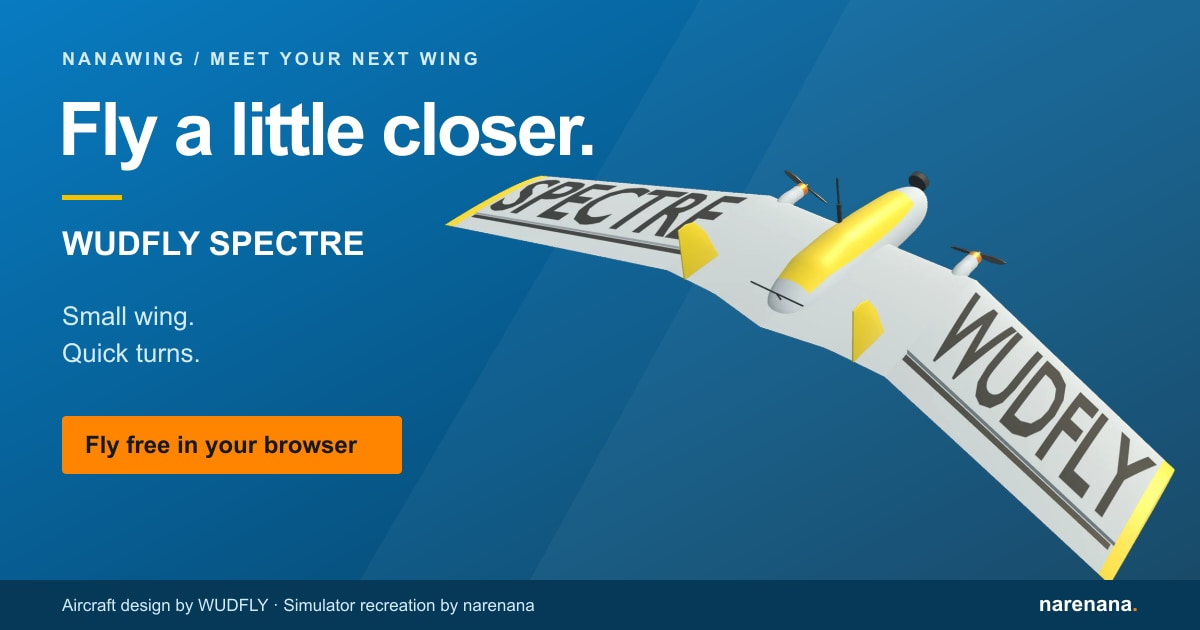
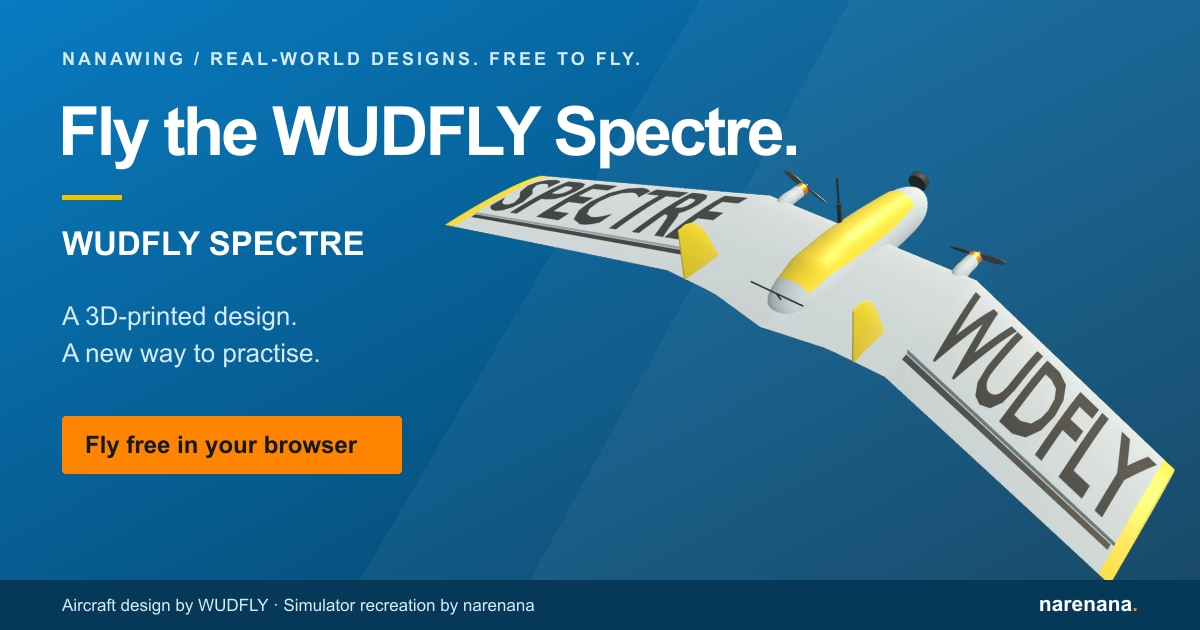
Reframe aircraft copy around free RC practice and add aircraft requests

Changed region(s): [[0.0617, 0.1508, 0.6783, 0.2714], [0.185, 0.0603, 0.5242, 0.1206], [0.0308, 0.4825, 0.2775, 0.6032]]

diff --git a/site/nanawing/aircraft/index.html b/site/nanawing/aircraft/index.html
@@ -1,17 +1,18 @@
-<!doctype html><html lang="en"><head><meta charset="utf-8"><script>if(location.hostname==='www.narenana.com'){var ga=document.createElement('script');ga.async=true;ga.src='https://www.googletagmanager.com/gtag/js?id=G-1KY518LPBH';document.head.appendChild(ga);window.dataLayer=window.dataLayer||[];function gtag(){dataLayer.push(arguments)}gtag('js',new Date());gtag('config','G-1KY518LPBH')}</script><meta name="viewport" content="width=device-width,initial-scale=1"><title>Fly the WUDFLY Spectre in Nanawing | Four wings to try | narenana</title><meta name="description" content="Get closer to the scenery in Nanawing's recreation of the WUDFLY Spectre, then find your pace in three more FPV wings. Fly free in your browser. No install or login."><meta name="robots" content="index,follow,max-image-preview:large"><link rel="canonical" href="https://www.narenana.com/nanawing/aircraft/"><meta name="theme-color" content="#087bc1"><link rel="icon" href="/assets/avatar.jpg?v=49424a6497"><meta property="og:type" content="website"><meta property="og:site_name" content="narenana"><meta property="og:title" content="Fly a little closer. Meet the WUDFLY Spectre."><meta property="og:description" content="Small wing. Quick turns. A whole new way to explore Nanawing. Try our recreation of WUDFLY's twin-motor Spectre free in your browser. No install or login."><meta property="og:url" content="https://www.narenana.com/nanawing/aircraft/"><meta property="og:image" content="https://www.narenana.com/nanawing/aircraft/spectre-share-v1.jpg"><meta name="twitter:card" content="summary_large_image"><meta name="twitter:title" content="Fly a little closer. Meet the WUDFLY Spectre."><meta name="twitter:description" content="Small wing. Quick turns. A whole new way to explore Nanawing. Try our recreation of WUDFLY's twin-motor Spectre free in your browser. No install or login."><meta name="twitter:image" content="https://www.narenana.com/nanawing/aircraft/spectre-share-v1.jpg"><meta property="og:image:alt" content="WUDFLY Spectre simulator model, a white and yellow twin-motor flying wing. Fly a little closer in Nanawing, free in your browser."><meta name="twitter:image:alt" content="WUDFLY Spectre simulator model, a white and yellow twin-motor flying wing. Fly a little closer in Nanawing, free in your browser."><link rel="stylesheet" href="/assets/family/fonts.css?v=c848c473a8"><link rel="stylesheet" href="/assets/editorial.css?v=f64f49da02"><link rel="stylesheet" href="/assets/family/shell.css?v=dfbc6fd384"><script type="application/ld+json">{"@context":"https://schema.org","@graph":[{"@type":"WebPage","@id":"https://www.narenana.com/nanawing/aircraft/","url":"https://www.narenana.com/nanawing/aircraft/","name":"Fly the WUDFLY Spectre in Nanawing | Four wings to try","description":"Get closer to the scenery in Nanawing's recreation of the WUDFLY Spectre, then find your pace in three more FPV wings. Fly free in your browser. No install or login.","isPartOf":{"@id":"https://www.narenana.com/#website"},"about":{"@id":"https://sim.narenana.com/#app"}},{"@type":"BreadcrumbList","itemListElement":[{"@type":"ListItem","position":1,"name":"Home","item":"https://www.narenana.com/"},{"@type":"ListItem","position":2,"name":"Nanawing aircraft","item":"https://www.narenana.com/nanawing/aircraft/"}]},{"@type":"ItemList","name":"Nanawing aircraft","itemListElement":[{"@type":"ListItem","position":1,"name":"WUDFLY Spectre","url":"https://www.narenana.com/nanawing/aircraft/#spectre","image":"https://www.narenana.com/assets/nanawing/aircraft/spectre-photo-1200.webp?v=4365a38855"},{"@type":"ListItem","position":2,"name":"Nanawing One","url":"https://www.narenana.com/nanawing/aircraft/#desertwing","image":"https://www.narenana.com/assets/nanawing/aircraft/desertwing-1400.webp?v=2f3e75815e"},{"@type":"ListItem","position":3,"name":"Morok UAV","url":"https://www.narenana.com/nanawing/aircraft/#morok","image":"https://www.narenana.com/assets/nanawing/aircraft/morok-1400.webp?v=7be7a0a8c3"},{"@type":"ListItem","position":4,"name":"Sukhoi S-70 Okhotnik","url":"https://www.narenana.com/nanawing/aircraft/#sukhoi","image":"https://www.narenana.com/assets/nanawing/aircraft/sukhoi-1400.webp?v=fbcd52112d"}]},{"@type":"FAQPage","mainEntity":[{"@type":"Question","name":"Which Nanawing aircraft should I fly first?","acceptedAnswer":{"@type":"Answer","text":"Try the Spectre for a slower pace and quick banks close to the scenery. Brand new to flying? The Nanawing One is a welcoming starting point, with the lowest stall speed in the hangar. Choose the Morok for more speed, or the Sukhoi for the fastest flight of the four."}},{"@type":"Question","name":"Is the WUDFLY Spectre in Nanawing the real aircraft?","acceptedAnswer":{"@type":"Answer","text":"It's our recreation of WUDFLY's design, with the real wing's 600 mm span, twin motors and white-and-yellow livery. Its handling is a simulator approximation. The real Spectre is designed and sold by WUDFLY at wudfly.com."}},{"@type":"Question","name":"Can every aircraft race every course?","acceptedAnswer":{"@type":"Answer","text":"Yes. Each of the four courses keeps a separate board for each aircraft, so you race pilots in the same plane. Only your best lap counts."}},{"@type":"Question","name":"Do I need a controller?","acceptedAnswer":{"@type":"Answer","text":"No. All four fly on a keyboard, and a gamepad or a USB RC radio works too. The Spectre's yaw needs a controller's yaw stick."}}]}]}</script><link rel="stylesheet" href="/assets/nanawing-aircraft.css?v=e9bcd54314"></head><body><a class="skip" href="#main">Skip to content</a><header class="nn-header"><div class="nn-bar"><a class="nn-brand" href="/" aria-label="narenana home"><img src="/assets/family/avatar.jpg?v=49424a6497" width="40" height="40" alt="">narenana<span>.</span></a><nav class="nn-desktop" aria-label="Products"><a href="https://sim.narenana.com/"><span>Nanawing</span><small>FPV simulator</small></a><a href="https://nanawing2.narenana.com/"><span>Nanawing 2</span><small>Line-of-sight simulator</small></a><a href="/wings/"><span>Wings</span><small>Compare RC plane prices</small></a><a href="/log-viewer/"><span>Log viewer</span><small>Replay your flight logs</small></a></nav><a class="nn-contact" href="/#contact">Get in touch ↗</a><details class="nn-mobile"><summary>Menu</summary><nav aria-label="Products"><a href="https://sim.narenana.com/"><span>Nanawing</span><small>FPV simulator</small></a><a href="https://nanawing2.narenana.com/"><span>Nanawing 2</span><small>Line-of-sight simulator</small></a><a href="/wings/"><span>Wings</span><small>Compare RC plane prices</small></a><a href="/log-viewer/"><span>Log viewer</span><small>Replay your flight logs</small></a><a href="/#contact"><span>Get in touch ↗</span><small>Meet the pilot</small></a></nav></details></div></header><main id="main"><div class="ac-page">
+<!doctype html><html lang="en"><head><meta charset="utf-8"><script>if(location.hostname==='www.narenana.com'){var ga=document.createElement('script');ga.async=true;ga.src='https://www.googletagmanager.com/gtag/js?id=G-1KY518LPBH';document.head.appendChild(ga);window.dataLayer=window.dataLayer||[];function gtag(){dataLayer.push(arguments)}gtag('js',new Date());gtag('config','G-1KY518LPBH')}</script><meta name="viewport" content="width=device-width,initial-scale=1"><title>Nanawing aircraft | Fly more. Build your skills for free. | narenana</title><meta name="description" content="Explore four lifelike aircraft, from a forgiving trainer to WUDFLY's 3D-printed Spectre. Get to know each wing and practise your RC flying, free in your browser."><meta name="robots" content="index,follow,max-image-preview:large"><link rel="canonical" href="https://www.narenana.com/nanawing/aircraft/"><meta name="theme-color" content="#087bc1"><link rel="icon" href="/assets/avatar.jpg?v=49424a6497"><meta property="og:type" content="website"><meta property="og:site_name" content="narenana"><meta property="og:title" content="Fly the WUDFLY Spectre free in Nanawing"><meta property="og:description" content="Get to know our recreation of WUDFLY's 3D-printed, twin-motor Spectre. Discover how it flies, then build your skills with three more aircraft. All free in your browser."><meta property="og:url" content="https://www.narenana.com/nanawing/aircraft/"><meta property="og:image" content="https://www.narenana.com/nanawing/aircraft/spectre-share-v1.jpg"><meta name="twitter:card" content="summary_large_image"><meta name="twitter:title" content="Fly the WUDFLY Spectre free in Nanawing"><meta name="twitter:description" content="Get to know our recreation of WUDFLY's 3D-printed, twin-motor Spectre. Discover how it flies, then build your skills with three more aircraft. All free in your browser."><meta name="twitter:image" content="https://www.narenana.com/nanawing/aircraft/spectre-share-v1.jpg"><meta property="og:image:alt" content="Fly the WUDFLY Spectre free in Nanawing: a simulator recreation of the white and yellow, 3D-printed twin-motor wing."><meta name="twitter:image:alt" content="Fly the WUDFLY Spectre free in Nanawing: a simulator recreation of the white and yellow, 3D-printed twin-motor wing."><link rel="stylesheet" href="/assets/family/fonts.css?v=c848c473a8"><link rel="stylesheet" href="/assets/editorial.css?v=f64f49da02"><link rel="stylesheet" href="/assets/family/shell.css?v=dfbc6fd384"><script type="application/ld+json">{"@context":"https://schema.org","@graph":[{"@type":"WebPage","@id":"https://www.narenana.com/nanawing/aircraft/","url":"https://www.narenana.com/nanawing/aircraft/","name":"Nanawing aircraft | Fly more. Build your skills for free.","description":"Explore four lifelike aircraft, from a forgiving trainer to WUDFLY's 3D-printed Spectre. Get to know each wing and practise your RC flying, free in your browser.","isPartOf":{"@id":"https://www.narenana.com/#website"},"about":{"@id":"https://sim.narenana.com/#app"}},{"@type":"BreadcrumbList","itemListElement":[{"@type":"ListItem","position":1,"name":"Home","item":"https://www.narenana.com/"},{"@type":"ListItem","position":2,"name":"Nanawing aircraft","item":"https://www.narenana.com/nanawing/aircraft/"}]},{"@type":"ItemList","name":"Nanawing aircraft","itemListElement":[{"@type":"ListItem","position":1,"name":"WUDFLY Spectre","url":"https://www.narenana.com/nanawing/aircraft/#spectre","image":"https://www.narenana.com/assets/nanawing/aircraft/spectre-photo-1200.webp?v=4365a38855"},{"@type":"ListItem","position":2,"name":"Nanawing One","url":"https://www.narenana.com/nanawing/aircraft/#desertwing","image":"https://www.narenana.com/assets/nanawing/aircraft/desertwing-1400.webp?v=2f3e75815e"},{"@type":"ListItem","position":3,"name":"Morok UAV","url":"https://www.narenana.com/nanawing/aircraft/#morok","image":"https://www.narenana.com/assets/nanawing/aircraft/morok-1400.webp?v=7be7a0a8c3"},{"@type":"ListItem","position":4,"name":"Sukhoi S-70 Okhotnik","url":"https://www.narenana.com/nanawing/aircraft/#sukhoi","image":"https://www.narenana.com/assets/nanawing/aircraft/sukhoi-1400.webp?v=fbcd52112d"}]},{"@type":"FAQPage","mainEntity":[{"@type":"Question","name":"How does this help me at the RC field?","acceptedAnswer":{"@type":"Answer","text":"Use Nanawing to practise control inputs, throttle management and planning your turns, and to discover how different aircraft respond. A gamepad or USB RC radio lets you practise on sticks. Simulator time complements real flying; the handling is an approximation, not a substitute for instruction, aircraft checks or safe flying at the field."}},{"@type":"Question","name":"Which Nanawing aircraft should I fly first?","acceptedAnswer":{"@type":"Answer","text":"Start with the Nanawing One if you are learning the controls. Try the Spectre for quick banks and twin-motor yaw on a controller. Move to the Morok and Sukhoi to explore how more speed changes your timing and flight planning. Every aircraft is free, so you can try them all."}},{"@type":"Question","name":"Is the WUDFLY Spectre in Nanawing the real aircraft?","acceptedAnswer":{"@type":"Answer","text":"It's our recreation of WUDFLY's design, with the real wing's 600 mm span, twin motors and white-and-yellow livery. Its handling is a simulator approximation. The real Spectre is designed and sold by WUDFLY at wudfly.com."}},{"@type":"Question","name":"Can every aircraft race every course?","acceptedAnswer":{"@type":"Answer","text":"Yes. Each of the four courses keeps a separate board for each aircraft, so you race pilots in the same plane. Only your best lap counts."}},{"@type":"Question","name":"Do I need a controller?","acceptedAnswer":{"@type":"Answer","text":"No. All four fly on a keyboard, and a gamepad or a USB RC radio works too. The Spectre's yaw needs a controller's yaw stick."}}]}]}</script><link rel="stylesheet" href="/assets/nanawing-aircraft.css?v=317e518063"></head><body><a class="skip" href="#main">Skip to content</a><header class="nn-header"><div class="nn-bar"><a class="nn-brand" href="/" aria-label="narenana home"><img src="/assets/family/avatar.jpg?v=49424a6497" width="40" height="40" alt="">narenana<span>.</span></a><nav class="nn-desktop" aria-label="Products"><a href="https://sim.narenana.com/"><span>Nanawing</span><small>FPV simulator</small></a><a href="https://nanawing2.narenana.com/"><span>Nanawing 2</span><small>Line-of-sight simulator</small></a><a href="/wings/"><span>Wings</span><small>Compare RC plane prices</small></a><a href="/log-viewer/"><span>Log viewer</span><small>Replay your flight logs</small></a></nav><a class="nn-contact" href="/#contact">Get in touch ↗</a><details class="nn-mobile"><summary>Menu</summary><nav aria-label="Products"><a href="https://sim.narenana.com/"><span>Nanawing</span><small>FPV simulator</small></a><a href="https://nanawing2.narenana.com/"><span>Nanawing 2</span><small>Line-of-sight simulator</small></a><a href="/wings/"><span>Wings</span><small>Compare RC plane prices</small></a><a href="/log-viewer/"><span>Log viewer</span><small>Replay your flight logs</small></a><a href="/#contact"><span>Get in touch ↗</span><small>Meet the pilot</small></a></nav></details></div></header><main id="main"><div class="ac-page">
 <nav class="crumbs" aria-label="Breadcrumb"><a href="/">Home</a> / Nanawing aircraft</nav>
-<div class="ac-hero"><span class="eyebrow">NANAWING / THE HANGAR</span><h1>Fly a little closer.<br><span>Meet the WUDFLY Spectre.</span></h1><p class="lede">Skim the scenery. Bank into the next gap. Discover the joy of a small wing with a quick response in Nanawing's recreation of the WUDFLY Spectre. Then try three more wings, each with its own pace and feel. All four are free to fly in your browser.</p>
-<div class="ac-actions"><a class="ac-btn" href="https://sim.narenana.com/?play&amp;aircraft=spectre" target="_blank" rel="noopener">Fly the Spectre <span aria-hidden="true">↗</span></a><a class="ac-link" href="#compare">Find your wing <span aria-hidden="true">↓</span></a></div>
-<ul class="ac-lineup" aria-label="The four aircraft"><li><a href="#spectre"><img src="/assets/nanawing/aircraft/spectre-900.webp?v=7a7cc3f3dd" srcset="/assets/nanawing/aircraft/spectre-560.webp?v=c5f88ce574 560w, /assets/nanawing/aircraft/spectre-900.webp?v=7a7cc3f3dd 900w, /assets/nanawing/aircraft/spectre-1400.webp?v=3e78b52736 1400w" sizes="(max-width:700px) 44vw, 270px" alt="WUDFLY Spectre, a white and yellow twin-motor flying wing with SPECTRE and WUDFLY lettering, rendered from the simulator model" width="900" height="511" fetchpriority="high"><span class="ac-lineup-name">WUDFLY Spectre</span><span class="ac-lineup-role">Get closer to the scenery</span></a></li><li><a href="#desertwing"><img src="/assets/nanawing/aircraft/desertwing-900.webp?v=6c56022542" srcset="/assets/nanawing/aircraft/desertwing-560.webp?v=a258e83f11 560w, /assets/nanawing/aircraft/desertwing-900.webp?v=6c56022542 900w, /assets/nanawing/aircraft/desertwing-1400.webp?v=2f3e75815e 1400w" sizes="(max-width:700px) 44vw, 270px" alt="Nanawing One, a blue camouflage flying wing with a single pusher prop, rendered from the simulator model" width="900" height="488" fetchpriority="high"><span class="ac-lineup-name">Nanawing One</span><span class="ac-lineup-role">Find your confidence</span></a></li><li><a href="#morok"><img src="/assets/nanawing/aircraft/morok-900.webp?v=6a83b1f494" srcset="/assets/nanawing/aircraft/morok-560.webp?v=bbaafd7eb1 560w, /assets/nanawing/aircraft/morok-900.webp?v=6a83b1f494 900w, /assets/nanawing/aircraft/morok-1400.webp?v=7be7a0a8c3 1400w" sizes="(max-width:700px) 44vw, 270px" alt="Morok UAV, a silver drone with a V-tail and a pusher prop, rendered from the simulator model" width="900" height="463" loading="lazy" decoding="async"><span class="ac-lineup-name">Morok UAV</span><span class="ac-lineup-role">Find a faster rhythm</span></a></li><li><a href="#sukhoi"><img src="/assets/nanawing/aircraft/sukhoi-900.webp?v=2dbaad485b" srcset="/assets/nanawing/aircraft/sukhoi-560.webp?v=9e1e25080a 560w, /assets/nanawing/aircraft/sukhoi-900.webp?v=2dbaad485b 900w, /assets/nanawing/aircraft/sukhoi-1400.webp?v=fbcd52112d 1400w" sizes="(max-width:700px) 44vw, 270px" alt="Sukhoi S-70 Okhotnik, a grey stealth flying wing, rendered from the simulator model" width="900" height="675" loading="lazy" decoding="async"><span class="ac-lineup-name">Sukhoi S-70 Okhotnik</span><span class="ac-lineup-role">Chase the rush</span></a></li></ul></div>
-<section class="ac-compare" id="compare" aria-labelledby="compare-title"><h2 id="compare-title">Four wings. Find your kind of flying.</h2>
+<div class="ac-hero"><span class="eyebrow">NANAWING / YOUR RC HANGAR</span><h1>Fly more aircraft.<br><span>Build your skills for free.</span></h1><p class="lede">Explore four lifelike aircraft, from a forgiving trainer to WUDFLY's 3D-printed Spectre. Feel how each one flies, find out what makes it different, and build confidence for your next day at the RC field. Every aircraft is free to fly in your browser. No install. No login.</p>
+<div class="ac-actions"><a class="ac-btn" href="https://sim.narenana.com/?play&amp;aircraft=spectre" target="_blank" rel="noopener">Start flying <span aria-hidden="true">↗</span></a><a class="ac-link" href="#compare">Get to know the aircraft <span aria-hidden="true">↓</span></a></div>
+<ul class="ac-lineup" aria-label="The four aircraft"><li><a href="#spectre"><img src="/assets/nanawing/aircraft/spectre-900.webp?v=7a7cc3f3dd" srcset="/assets/nanawing/aircraft/spectre-560.webp?v=c5f88ce574 560w, /assets/nanawing/aircraft/spectre-900.webp?v=7a7cc3f3dd 900w, /assets/nanawing/aircraft/spectre-1400.webp?v=3e78b52736 1400w" sizes="(max-width:700px) 44vw, 270px" alt="WUDFLY Spectre, a white and yellow twin-motor flying wing with SPECTRE and WUDFLY lettering, rendered from the simulator model" width="900" height="511" fetchpriority="high"><span class="ac-lineup-name">WUDFLY Spectre</span><span class="ac-lineup-role">The 3D-printed wing · Fly with precision</span></a></li><li><a href="#desertwing"><img src="/assets/nanawing/aircraft/desertwing-900.webp?v=6c56022542" srcset="/assets/nanawing/aircraft/desertwing-560.webp?v=a258e83f11 560w, /assets/nanawing/aircraft/desertwing-900.webp?v=6c56022542 900w, /assets/nanawing/aircraft/desertwing-1400.webp?v=2f3e75815e 1400w" sizes="(max-width:700px) 44vw, 270px" alt="Nanawing One, a blue camouflage flying wing with a single pusher prop, rendered from the simulator model" width="900" height="488" fetchpriority="high"><span class="ac-lineup-name">Nanawing One</span><span class="ac-lineup-role">The trainer · Build the basics</span></a></li><li><a href="#morok"><img src="/assets/nanawing/aircraft/morok-900.webp?v=6a83b1f494" srcset="/assets/nanawing/aircraft/morok-560.webp?v=bbaafd7eb1 560w, /assets/nanawing/aircraft/morok-900.webp?v=6a83b1f494 900w, /assets/nanawing/aircraft/morok-1400.webp?v=7be7a0a8c3 1400w" sizes="(max-width:700px) 44vw, 270px" alt="Morok UAV, a silver drone with a V-tail and a pusher prop, rendered from the simulator model" width="900" height="463" loading="lazy" decoding="async"><span class="ac-lineup-name">Morok UAV</span><span class="ac-lineup-role">The step up · Plan your turns</span></a></li><li><a href="#sukhoi"><img src="/assets/nanawing/aircraft/sukhoi-900.webp?v=2dbaad485b" srcset="/assets/nanawing/aircraft/sukhoi-560.webp?v=9e1e25080a 560w, /assets/nanawing/aircraft/sukhoi-900.webp?v=2dbaad485b 900w, /assets/nanawing/aircraft/sukhoi-1400.webp?v=fbcd52112d 1400w" sizes="(max-width:700px) 44vw, 270px" alt="Sukhoi S-70 Okhotnik, a grey stealth flying wing, rendered from the simulator model" width="900" height="675" loading="lazy" decoding="async"><span class="ac-lineup-name">Sukhoi S-70 Okhotnik</span><span class="ac-lineup-role">The speed challenge · Think ahead</span></a></li></ul></div>
+<section class="ac-practice" aria-labelledby="practice-title"><h2 id="practice-title">Different aircraft. More ways to grow.</h2><p>The pleasure of RC flying is getting to know the aircraft: how much input it needs, when to ease off the throttle, how early to start a turn. A trainer, a nimble twin-motor wing and a fast, heavier aircraft each give you something different to work on.</p><p>Try them all. Repeat a manoeuvre, explore a new route or put your control to the test on a race course. You can make mistakes, reset and go again without a repair bill. Connect a gamepad or USB RC radio to practise on sticks, or get started with a keyboard.</p></section>
+<section class="ac-compare" id="compare" aria-labelledby="compare-title"><h2 id="compare-title">Get to know your hangar</h2>
 <div class="ac-table-wrap" role="region" aria-labelledby="compare-title" tabindex="0"><table class="ac-table"><thead><tr><th scope="col">Aircraft</th><th scope="col">Top speed</th><th scope="col">Stall speed</th><th scope="col">Roll rate</th><th scope="col">Climb rate</th><th scope="col">Wingspan</th><th scope="col">Weight</th><th scope="col">Thrust</th><th scope="col">Battery</th></tr></thead>
 <tbody><tr><th scope="row"><a href="#spectre">WUDFLY Spectre</a></th><td>100&nbsp;km/h</td><td>25&nbsp;km/h</td><td>344°/s</td><td>8.9&nbsp;m/s</td><td>0.60&nbsp;m</td><td>215&nbsp;g</td><td>3&nbsp;N</td><td>2S 1500&nbsp;mAh · 12&nbsp;A</td></tr><tr><th scope="row"><a href="#desertwing">Nanawing One</a></th><td>191&nbsp;km/h</td><td>24&nbsp;km/h</td><td>241°/s</td><td>18.6&nbsp;m/s</td><td>0.95&nbsp;m</td><td>1.0&nbsp;kg</td><td>26&nbsp;N</td><td>3S 5000&nbsp;mAh · 40&nbsp;A</td></tr><tr><th scope="row"><a href="#morok">Morok UAV</a></th><td>249&nbsp;km/h</td><td>28&nbsp;km/h</td><td>201°/s</td><td>24.6&nbsp;m/s</td><td>0.85&nbsp;m</td><td>1.4&nbsp;kg</td><td>44&nbsp;N</td><td>4S 6500&nbsp;mAh · 60&nbsp;A</td></tr><tr><th scope="row"><a href="#sukhoi">Sukhoi S-70 Okhotnik</a></th><td>323&nbsp;km/h</td><td>34&nbsp;km/h</td><td>166°/s</td><td>32.3&nbsp;m/s</td><td>1.05&nbsp;m</td><td>2.0&nbsp;kg</td><td>74&nbsp;N</td><td>6S 8000&nbsp;mAh · 90&nbsp;A</td></tr></tbody></table></div>
 <p class="ac-swipe">Swipe the table sideways for all eight specs.</p><p class="ac-note">Performance measured in Nanawing, not real-world aircraft specifications. Stall speed is wings-level and unpowered; banked turns need more. Battery is the simulated pack and its full-throttle current.</p></section>
 <section class="ac-craft" id="spectre" aria-labelledby="spectre-title">
 <figure class="ac-craft-img ac-craft-photo"><img src="/assets/nanawing/aircraft/spectre-photo-900.webp?v=446b8861bd" srcset="/assets/nanawing/aircraft/spectre-photo-600.webp?v=1125c37baa 600w, /assets/nanawing/aircraft/spectre-photo-900.webp?v=446b8861bd 900w, /assets/nanawing/aircraft/spectre-photo-1200.webp?v=4365a38855 1200w" sizes="(max-width:860px) 92vw, 600px" alt="The real WUDFLY Spectre on grass: a white 3D-printed twin-motor flying wing with yellow fins" width="1200" height="900" loading="lazy" decoding="async"><figcaption>The real Spectre. Photo: WUDFLY</figcaption></figure>
-<div class="ac-craft-body"><span class="eyebrow">01 / GET CLOSER TO THE SCENERY</span><h2 id="spectre-title">WUDFLY Spectre</h2>
+<div class="ac-craft-body"><span class="eyebrow">01 / THE 3D-PRINTED WING · FLY WITH PRECISION</span><h2 id="spectre-title">WUDFLY Spectre</h2>
 <p class="ac-credit">Aircraft design by <a href="https://wudfly.com/" target="_blank" rel="noopener">WUDFLY</a>.</p>
-<p>Small wing. Quick turns. A new reason to take the scenic route. Our recreation of WUDFLY's 600 mm, 215 g twin-motor wing pairs the lowest top speed in the hangar with the quickest roll. Its measured 100 km/h top speed gives you more time to read the scenery; its crisp bank response invites you to get closer.</p><p>Bring a controller and discover its party trick: differential thrust. The yaw stick varies the two motors' speeds to swing the nose, giving the Spectre a move no other wing in the hangar has. It works best at lower speeds and needs more than 10% throttle. A keyboard still handles pitch, roll and throttle; yaw needs a controller.</p><p class="ac-note">Our simulator model is an original recreation of WUDFLY's design, built from public product photos. Its handling is a simulator approximation, not a manufacturer-validated flight model.</p>
+<p>A plane you can 3D-print at home, recreated for you to fly here. WUDFLY's Spectre packs two motors into a 600 mm, 215 g wing. In Nanawing, its quick roll and lower top speed make it a delight to weave through a route while practising small, deliberate stick movements.</p><p>The Spectre also introduces a different way to steer: differential thrust. With a controller, the yaw stick varies the motors' speeds to swing the nose, alongside your pitch, roll and throttle inputs. Try it at a gentler pace and feel the difference. Yaw needs more than 10% throttle and a controller; keyboard flight still supports pitch, roll and throttle.</p><p class="ac-note">Our simulator model is an original recreation of WUDFLY's design, built from public product photos. Its handling is a simulator approximation, not a manufacturer-validated flight model.</p>
 <dl class="ac-specs"><div><dt>Top speed</dt><dd>100&nbsp;km/h</dd></div><div><dt>Stall speed</dt><dd>25&nbsp;km/h</dd></div><div><dt>Roll rate</dt><dd>344°/s</dd></div><div><dt>Climb rate</dt><dd>8.9&nbsp;m/s</dd></div><div><dt>Wingspan</dt><dd>0.60&nbsp;m</dd></div><div><dt>Weight</dt><dd>215&nbsp;g</dd></div><div><dt>Thrust</dt><dd>3&nbsp;N</dd></div><div><dt>Battery</dt><dd>2S 1500&nbsp;mAh · 12&nbsp;A</dd></div></dl>
 <div class="ac-records"><h3>Fastest laps <span>in the WUDFLY Spectre</span></h3>
 <table><thead><tr><th scope="col">Course</th><th scope="col">Best lap</th><th scope="col">Pilot</th></tr></thead><tbody data-records="spectre"><tr><th scope="row">Windmill Run<small>Island · 4.3 km</small></th><td class="ac-time">—</td><td class="ac-pilot">—</td></tr><tr><th scope="row">River Run<small>Island · 8.1 km</small></th><td class="ac-time">—</td><td class="ac-pilot">—</td></tr><tr><th scope="row">Tunnel Run<small>Desert · 5.1 km</small></th><td class="ac-time">—</td><td class="ac-pilot">—</td></tr><tr><th scope="row">Pyramid Run<small>Desert · 5.7 km</small></th><td class="ac-time">—</td><td class="ac-pilot">—</td></tr></tbody></table>
@@ -23,9 +24,9 @@
 <h4>The real Spectre, flown by WUDFLY</h4><ul class="ac-videos"><li><a class="ac-yt" href="https://www.youtube.com/watch?v=MaVMHJFvd5g" data-yt="MaVMHJFvd5g" target="_blank" rel="noopener"><img src="https://i.ytimg.com/vi/MaVMHJFvd5g/hqdefault.jpg" alt="" width="480" height="360" loading="lazy" decoding="async"><span class="ac-yt-play" aria-hidden="true">▶</span><span class="sr-only">Play: </span></a><p class="ac-yt-title">Ride of the SPECTRE | Full FPV Flight</p></li><li><a class="ac-yt" href="https://www.youtube.com/watch?v=UwFGTptRYRU" data-yt="UwFGTptRYRU" target="_blank" rel="noopener"><img src="https://i.ytimg.com/vi/UwFGTptRYRU/hqdefault.jpg" alt="" width="480" height="360" loading="lazy" decoding="async"><span class="ac-yt-play" aria-hidden="true">▶</span><span class="sr-only">Play: </span></a><p class="ac-yt-title">215g 3D-Printed FPV Wing Build Breakdown | WUDFLY SPECTRE</p></li><li><a class="ac-yt" href="https://www.youtube.com/watch?v=vaqDeINMnJQ" data-yt="vaqDeINMnJQ" target="_blank" rel="noopener"><img src="https://i.ytimg.com/vi/vaqDeINMnJQ/hqdefault.jpg" alt="" width="480" height="360" loading="lazy" decoding="async"><span class="ac-yt-play" aria-hidden="true">▶</span><span class="sr-only">Play: </span></a><p class="ac-yt-title">215g 3D Printed FPV Wing | DJI O4 Wide – WUDFLY Spectre</p></li></ul></div></section>
 <section class="ac-craft ac-craft--flip" id="desertwing" aria-labelledby="desertwing-title">
 <figure class="ac-craft-img"><img src="/assets/nanawing/aircraft/desertwing-900.webp?v=6c56022542" srcset="/assets/nanawing/aircraft/desertwing-560.webp?v=a258e83f11 560w, /assets/nanawing/aircraft/desertwing-900.webp?v=6c56022542 900w, /assets/nanawing/aircraft/desertwing-1400.webp?v=2f3e75815e 1400w" sizes="(max-width:860px) 92vw, 520px" alt="Nanawing One, a blue camouflage flying wing with a single pusher prop, rendered from the simulator model" width="900" height="488" loading="lazy" decoding="async"></figure>
-<div class="ac-craft-body"><span class="eyebrow">02 / FIND YOUR CONFIDENCE</span><h2 id="desertwing-title">Nanawing One</h2>
+<div class="ac-craft-body"><span class="eyebrow">02 / THE TRAINER · BUILD THE BASICS</span><h2 id="desertwing-title">Nanawing One</h2>
 <p class="ac-credit">Original model by narenana</p>
-<p>Your first wing doesn't have to be one you outgrow. Learn to hold a line, link your turns and bring a lap together in Nanawing's own flying wing. The lowest stall speed in the hangar and a quick roll make the One a welcoming place to start.</p><p>When you're ready, open the throttle. A measured 191 km/h in the simulator leaves plenty of room to grow. Pick a course, set a time, then come back for one cleaner lap.</p>
+<p>There is nothing quite like the moment a turn starts to feel natural. The Nanawing One gives you a welcoming place to find that feeling. Our original trainer has the lowest stall speed in the hangar and a quick roll response, so you can get comfortable holding a line, making smooth banks and working pitch and throttle together.</p><p>Once the basics click, there is more aircraft to discover. With a measured 191 km/h top speed in the simulator, the One has plenty of pace for your first race laps and the practice that comes after them.</p>
 <dl class="ac-specs"><div><dt>Top speed</dt><dd>191&nbsp;km/h</dd></div><div><dt>Stall speed</dt><dd>24&nbsp;km/h</dd></div><div><dt>Roll rate</dt><dd>241°/s</dd></div><div><dt>Climb rate</dt><dd>18.6&nbsp;m/s</dd></div><div><dt>Wingspan</dt><dd>0.95&nbsp;m</dd></div><div><dt>Weight</dt><dd>1.0&nbsp;kg</dd></div><div><dt>Thrust</dt><dd>26&nbsp;N</dd></div><div><dt>Battery</dt><dd>3S 5000&nbsp;mAh · 40&nbsp;A</dd></div></dl>
 <div class="ac-records"><h3>Fastest laps <span>in the Nanawing One</span></h3>
 <table><thead><tr><th scope="col">Course</th><th scope="col">Best lap</th><th scope="col">Pilot</th></tr></thead><tbody data-records="desertwing"><tr><th scope="row">Windmill Run<small>Island · 4.3 km</small></th><td class="ac-time">—</td><td class="ac-pilot">—</td></tr><tr><th scope="row">River Run<small>Island · 8.1 km</small></th><td class="ac-time">—</td><td class="ac-pilot">—</td></tr><tr><th scope="row">Tunnel Run<small>Desert · 5.1 km</small></th><td class="ac-time">—</td><td class="ac-pilot">—</td></tr><tr><th scope="row">Pyramid Run<small>Desert · 5.7 km</small></th><td class="ac-time">—</td><td class="ac-pilot">—</td></tr></tbody></table>
@@ -34,9 +35,9 @@
 </div></section>
 <section class="ac-craft" id="morok" aria-labelledby="morok-title">
 <figure class="ac-craft-img"><img src="/assets/nanawing/aircraft/morok-900.webp?v=6a83b1f494" srcset="/assets/nanawing/aircraft/morok-560.webp?v=bbaafd7eb1 560w, /assets/nanawing/aircraft/morok-900.webp?v=6a83b1f494 900w, /assets/nanawing/aircraft/morok-1400.webp?v=7be7a0a8c3 1400w" sizes="(max-width:860px) 92vw, 520px" alt="Morok UAV, a silver drone with a V-tail and a pusher prop, rendered from the simulator model" width="900" height="463" loading="lazy" decoding="async"></figure>
-<div class="ac-craft-body"><span class="eyebrow">03 / FIND A FASTER RHYTHM</span><h2 id="morok-title">Morok UAV</h2>
+<div class="ac-craft-body"><span class="eyebrow">03 / THE STEP UP · PLAN YOUR TURNS</span><h2 id="morok-title">Morok UAV</h2>
 <p class="ac-credit">Model: <a href="https://sketchfab.com/3d-models/morok-uav-drone-3d-model-3ae0e923b50f4885a2317eba199043cd" target="_blank" rel="noopener">“Morok UAV Drone 3D Model”</a> by rombic992, <a href="https://creativecommons.org/licenses/by/4.0/" target="_blank" rel="noopener">CC BY 4.0</a>. Rendered in Nanawing with its simulator materials.</p>
-<p>Know the course? Now feel it at a different pace. The Morok takes you up to a measured 249 km/h in Nanawing, turning a familiar lap into a fresh challenge. Look ahead, choose your line and let one turn lead into the next.</p><p>Its slower roll and higher stall speed than the One reward a little more planning. Try the same course in both: the gates haven't moved, but the way you approach them will.</p>
+<p>Fly a route you know in the One, then take the Morok around it. The scenery is the same, but your timing changes. A measured 249 km/h top speed and a slower roll response invite you to look further ahead and start setting up your turns sooner.</p><p>This is where you practise adapting to the aircraft instead of asking every aircraft to fly the same way. Manage your speed, leave room for the bank and see how smoothly you can join one turn to the next.</p>
 <dl class="ac-specs"><div><dt>Top speed</dt><dd>249&nbsp;km/h</dd></div><div><dt>Stall speed</dt><dd>28&nbsp;km/h</dd></div><div><dt>Roll rate</dt><dd>201°/s</dd></div><div><dt>Climb rate</dt><dd>24.6&nbsp;m/s</dd></div><div><dt>Wingspan</dt><dd>0.85&nbsp;m</dd></div><div><dt>Weight</dt><dd>1.4&nbsp;kg</dd></div><div><dt>Thrust</dt><dd>44&nbsp;N</dd></div><div><dt>Battery</dt><dd>4S 6500&nbsp;mAh · 60&nbsp;A</dd></div></dl>
 <div class="ac-records"><h3>Fastest laps <span>in the Morok UAV</span></h3>
 <table><thead><tr><th scope="col">Course</th><th scope="col">Best lap</th><th scope="col">Pilot</th></tr></thead><tbody data-records="morok"><tr><th scope="row">Windmill Run<small>Island · 4.3 km</small></th><td class="ac-time">—</td><td class="ac-pilot">—</td></tr><tr><th scope="row">River Run<small>Island · 8.1 km</small></th><td class="ac-time">—</td><td class="ac-pilot">—</td></tr><tr><th scope="row">Tunnel Run<small>Desert · 5.1 km</small></th><td class="ac-time">—</td><td class="ac-pilot">—</td></tr><tr><th scope="row">Pyramid Run<small>Desert · 5.7 km</small></th><td class="ac-time">—</td><td class="ac-pilot">—</td></tr></tbody></table>
@@ -45,9 +46,9 @@
 </div></section>
 <section class="ac-craft ac-craft--flip" id="sukhoi" aria-labelledby="sukhoi-title">
 <figure class="ac-craft-img"><img src="/assets/nanawing/aircraft/sukhoi-900.webp?v=2dbaad485b" srcset="/assets/nanawing/aircraft/sukhoi-560.webp?v=9e1e25080a 560w, /assets/nanawing/aircraft/sukhoi-900.webp?v=2dbaad485b 900w, /assets/nanawing/aircraft/sukhoi-1400.webp?v=fbcd52112d 1400w" sizes="(max-width:860px) 92vw, 520px" alt="Sukhoi S-70 Okhotnik, a grey stealth flying wing, rendered from the simulator model" width="900" height="675" loading="lazy" decoding="async"></figure>
-<div class="ac-craft-body"><span class="eyebrow">04 / CHASE THE RUSH</span><h2 id="sukhoi-title">Sukhoi S-70 Okhotnik</h2>
+<div class="ac-craft-body"><span class="eyebrow">04 / THE SPEED CHALLENGE · THINK AHEAD</span><h2 id="sukhoi-title">Sukhoi S-70 Okhotnik</h2>
 <p class="ac-credit">Model: <a href="https://sketchfab.com/3d-models/sukhoi-s-70-okhotnik-e646ec35becb401faa772070b9a18280" target="_blank" rel="noopener">“Sukhoi S-70 Okhotnik”</a> by Muhamad Mirza Arrafi, <a href="https://creativecommons.org/licenses/by/4.0/" target="_blank" rel="noopener">CC BY 4.0</a>. Rendered in Nanawing with its simulator materials.</p>
-<p>For the moment you want everything to arrive faster. At a measured 323 km/h in Nanawing, the Sukhoi is the fastest wing in the hangar, with the strongest climb to match. Open it up and watch the scenery rush past.</p><p>That speed asks something of you. The highest stall speed and slowest roll of the four mean you'll need to plan your banks and commit to your line. Find the rhythm, and every clean gate feels earned.</p>
+<p>Ready to feel what more speed does to a familiar flight? The Sukhoi is Nanawing's fastest aircraft, reaching a measured 323 km/h in the simulator, with the strongest climb of the four. It is a thrill to open up, and a very different aircraft to bring through a turn.</p><p>Its higher stall speed and slower roll ask you to manage speed and turning room with care. Practise anticipating the next move, rather than reacting at the last moment. Here, you can try again until your inputs and your flight line come together.</p>
 <dl class="ac-specs"><div><dt>Top speed</dt><dd>323&nbsp;km/h</dd></div><div><dt>Stall speed</dt><dd>34&nbsp;km/h</dd></div><div><dt>Roll rate</dt><dd>166°/s</dd></div><div><dt>Climb rate</dt><dd>32.3&nbsp;m/s</dd></div><div><dt>Wingspan</dt><dd>1.05&nbsp;m</dd></div><div><dt>Weight</dt><dd>2.0&nbsp;kg</dd></div><div><dt>Thrust</dt><dd>74&nbsp;N</dd></div><div><dt>Battery</dt><dd>6S 8000&nbsp;mAh · 90&nbsp;A</dd></div></dl>
 <div class="ac-records"><h3>Fastest laps <span>in the Sukhoi S-70 Okhotnik</span></h3>
 <table><thead><tr><th scope="col">Course</th><th scope="col">Best lap</th><th scope="col">Pilot</th></tr></thead><tbody data-records="sukhoi"><tr><th scope="row">Windmill Run<small>Island · 4.3 km</small></th><td class="ac-time">—</td><td class="ac-pilot">—</td></tr><tr><th scope="row">River Run<small>Island · 8.1 km</small></th><td class="ac-time">—</td><td class="ac-pilot">—</td></tr><tr><th scope="row">Tunnel Run<small>Desert · 5.1 km</small></th><td class="ac-time">—</td><td class="ac-pilot">—</td></tr><tr><th scope="row">Pyramid Run<small>Desert · 5.7 km</small></th><td class="ac-time">—</td><td class="ac-pilot">—</td></tr></tbody></table>
@@ -55,6 +56,7 @@
 <a class="ac-btn" href="https://sim.narenana.com/?play&amp;aircraft=sukhoi" target="_blank" rel="noopener">Fly the Sukhoi S-70 Okhotnik <span aria-hidden="true">↗</span></a>
 </div></section>
 <section class="ac-method" aria-labelledby="method-title"><h2 id="method-title">Where the numbers come from</h2><p>A test bot flies each aircraft on the same flight model you play with. A settled full-throttle level run gives top speed, a full-stick roll gives roll rate, and a 20° full-power climb gives climb rate.</p><p>Stall speed is the unpowered, wings-level 1 g lift limit from each wing's aerodynamic curve. The in-game stall warning comes earlier, at 27, 32, 39 and 31 km/h for the One, Morok, Sukhoi and Spectre, and banked turns need more speed. The bench is rerun after any tuning, so these numbers match what you fly.</p></section>
-<section class="ac-faq" aria-labelledby="faq-title"><h2 id="faq-title">Questions</h2><details><summary>Which Nanawing aircraft should I fly first?</summary><p>Try the Spectre for a slower pace and quick banks close to the scenery. Brand new to flying? The Nanawing One is a welcoming starting point, with the lowest stall speed in the hangar. Choose the Morok for more speed, or the Sukhoi for the fastest flight of the four.</p></details><details><summary>Is the WUDFLY Spectre in Nanawing the real aircraft?</summary><p>It's our recreation of WUDFLY's design, with the real wing's 600 mm span, twin motors and white-and-yellow livery. Its handling is a simulator approximation. The real Spectre is designed and sold by WUDFLY at wudfly.com.</p></details><details><summary>Can every aircraft race every course?</summary><p>Yes. Each of the four courses keeps a separate board for each aircraft, so you race pilots in the same plane. Only your best lap counts.</p></details><details><summary>Do I need a controller?</summary><p>No. All four fly on a keyboard, and a gamepad or a USB RC radio works too. The Spectre's yaw needs a controller's yaw stick.</p></details></section>
-<section class="ac-final"><h2>Your next favourite wing is one flight away.</h2><p>Start with the Spectre. Stay for one more lap. Fly all four free on your laptop or desktop, right in your browser. No install. No login.</p><a class="ac-btn" href="https://sim.narenana.com/?play&amp;aircraft=spectre" target="_blank" rel="noopener">Take the Spectre for a flight <span aria-hidden="true">↗</span></a></section>
+<section class="ac-faq" aria-labelledby="faq-title"><h2 id="faq-title">Questions</h2><details><summary>How does this help me at the RC field?</summary><p>Use Nanawing to practise control inputs, throttle management and planning your turns, and to discover how different aircraft respond. A gamepad or USB RC radio lets you practise on sticks. Simulator time complements real flying; the handling is an approximation, not a substitute for instruction, aircraft checks or safe flying at the field.</p></details><details><summary>Which Nanawing aircraft should I fly first?</summary><p>Start with the Nanawing One if you are learning the controls. Try the Spectre for quick banks and twin-motor yaw on a controller. Move to the Morok and Sukhoi to explore how more speed changes your timing and flight planning. Every aircraft is free, so you can try them all.</p></details><details><summary>Is the WUDFLY Spectre in Nanawing the real aircraft?</summary><p>It's our recreation of WUDFLY's design, with the real wing's 600 mm span, twin motors and white-and-yellow livery. Its handling is a simulator approximation. The real Spectre is designed and sold by WUDFLY at wudfly.com.</p></details><details><summary>Can every aircraft race every course?</summary><p>Yes. Each of the four courses keeps a separate board for each aircraft, so you race pilots in the same plane. Only your best lap counts.</p></details><details><summary>Do I need a controller?</summary><p>No. All four fly on a keyboard, and a gamepad or a USB RC radio works too. The Spectre's yaw needs a controller's yaw stick.</p></details></section>
+<section class="ac-final"><h2>Make your next flight a practice flight.</h2><p>Pick an aircraft, get comfortable on the controls and enjoy finding out what it can do. Your whole Nanawing hangar is free, right in your browser on a laptop or desktop.</p><a class="ac-btn" href="https://sim.narenana.com/?play&amp;aircraft=spectre" target="_blank" rel="noopener">Start flying for free <span aria-hidden="true">↗</span></a></section>
+<section class="ac-request" id="request-aircraft" aria-labelledby="request-title"><h2 id="request-title">What should we add to the hangar?</h2><p>Have a favourite RC plane, or a design you've always wanted to try? Send narenana its name and a photo or link, along with what you'd love to practise with it.</p><ul><li><a href="https://www.instagram.com/narenana" target="_blank" rel="noopener">Request an aircraft on Instagram <span aria-hidden="true">↗</span></a></li><li><a href="https://www.linkedin.com/in/siddharthanihalani/" target="_blank" rel="noopener">Request an aircraft on LinkedIn <span aria-hidden="true">↗</span></a></li></ul></section>
 </div></main><footer class="nn-footer"><div><a class="nn-wordmark" href="/">narenana<span>.</span></a><p>Free sims and tools for RC pilots.</p></div><nav aria-label="More from narenana"><a href="https://sim.narenana.com/guides/">FPV flying guides</a><a href="/wings/browse/">Find your next wing</a><a href="/log-viewer/guides/">Flight-log guides</a><a href="https://www.youtube.com/@narenana">YouTube ↗</a><a href="/#contact">Get in touch ↗</a></nav></footer><script type="module" src="/assets/family/preview-links.js?v=be680653c7"></script><script>document.addEventListener('click',function(e){var a=e.target.closest&&e.target.closest('a[data-yt]');if(!a||e.ctrlKey||e.metaKey||e.shiftKey)return;e.preventDefault();var f=document.createElement('iframe');f.src='https://www.youtube-nocookie.com/embed/'+a.getAttribute('data-yt')+'?autoplay=1&rel=0';f.title=a.parentNode.querySelector('.ac-yt-title').textContent;f.allow='accelerometer; autoplay; clipboard-write; encrypted-media; gyroscope; picture-in-picture';f.allowFullscreen=true;f.className='ac-yt ac-yt-on';a.replaceWith(f);f.focus()});</script></body></html>

diff --git a/site/assets/nanawing-aircraft.css b/site/assets/nanawing-aircraft.css
@@ -84,7 +84,9 @@ main:has(.ac-page){max-width:1180px}
 .ac-yt-title{font-size:14px;line-height:1.45;margin:8px 0 0;font-weight:600}
 
 /* Method, FAQ, final */
-.ac-method,.ac-faq{margin-top:56px;padding-top:40px;border-top:1px solid var(--ac-line);max-width:820px}
+.ac-practice,.ac-method,.ac-faq,.ac-request{margin-top:56px;padding-top:40px;border-top:1px solid var(--ac-line);max-width:820px}
+.ac-request ul{list-style:none;display:flex;flex-wrap:wrap;gap:8px 28px;margin:16px 0 0;padding:0}
+.ac-request a{display:inline-flex;align-items:center;gap:8px;min-height:44px;font-weight:700;text-underline-offset:4px}
 .ac-faq details{border-bottom:1px solid var(--ac-line)}
 .ac-faq summary{cursor:pointer;position:relative;padding:14px 36px 14px 2px;font-weight:700;min-height:44px;list-style:none}
 .ac-faq summary::-webkit-details-marker{display:none}
